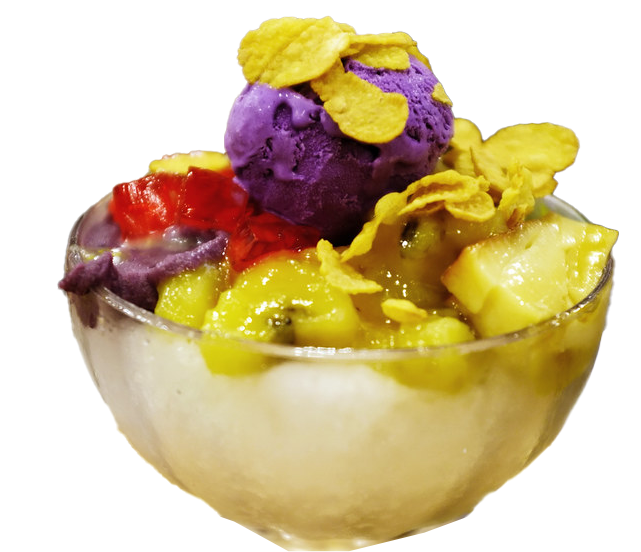
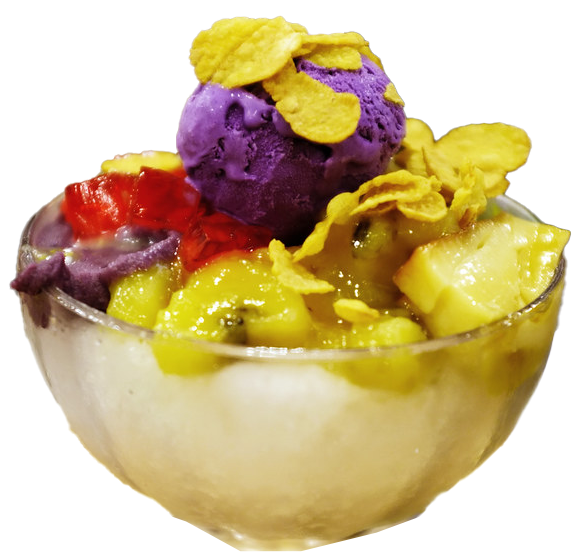
adjusting images and adding tailwind custom config

diff --git a/client/src/components/HomeDual/HomeDual.jsx b/client/src/components/HomeDual/HomeDual.jsx
@@ -5,11 +5,11 @@ import PaletaHalf from "./PaletaHalf";
 export default function HomeDual() {
   return (
     <div className=" w-screen h-screen ">
-      <div className="relative inset-0 bottom-0 lg:absolute lg:inset-x-0 lg:w-1/2 lg:h-full lg:float-left md:w-1/2 md:h-full md:float-left sm:w-full ">
+      <div className="relative inset-0 bottom-0 h-full lg:absolute lg:inset-x-0 lg:w-1/2 lg:h-full lg:float-left md:w-1/2 md:h-full md:float-left sm:w-full sm:h-1/2 ">
         <HaluHalf />
       </div>
 
-      <div className="lg:w-1/2 lg:h-full lg:float-right md:w-1/2 md:h-full md:float-left sm:w-full  ">
+      <div className=" lg:w-1/2 lg:h-full lg:float-right md:w-1/2 md:h-full md:float-left sm:w-full  ">
         <PaletaHalf />
       </div>
     </div>

diff --git a/client/tailwind.config.js b/client/tailwind.config.js
@@ -1,10 +1,24 @@
 /** @type {import('tailwindcss').Config} */
 module.exports = {
-  content: [
-    "./src/**/*.{js,jsx,ts,tsx}",
-  ],
+  content: ["./src/**/*.{js,jsx,ts,tsx}"],
   theme: {
-    extend: {},
+    extend: {
+      backgroundColor: (theme) => ({
+        yellow: "#FFED4C",
+        yellow100: "#ffff94",
+        chartreuse: "#A7DF06",
+        prp: "#AC9EFF",
+        magenta: "#B415FF",
+        cyan: "#0ADDD0",
+        red: "#D92929",
+        orange: "#FF6B00",
+        green: "#00A300",
+        blue: "#2421C6",
+        trp: "transparent",
+        black: "#000000",
+        white: "#ffffff",
+      }),
+    },
   },
   plugins: [],
-}
+};

diff --git a/client/src/components/HomeDual/HaluHalf.jsx b/client/src/components/HomeDual/HaluHalf.jsx
@@ -3,14 +3,12 @@ import halohalo from "../../images/halohalo.png";
 
 export default function HaluHalf() {
   return (
-    <div className="w-full h-full relative bg-yellow-400">
-      <div>
-        <img
-          src={halohalo}
-          alt="halo halo ice cream"
-          className=" absolute inset-x-0 bottom-0 w-full sm:w-screen md:w-full lg:w-full"
-        />
-      </div>
+    <div className=" overflow-hidden w-full h-full relative bg-yellow">
+      <img
+        src={halohalo}
+        alt="halo halo ice cream"
+        className=" absolute bottom-0 left-0 -ml-16 -mb-20 w-5/6"
+      />
     </div>
   );
 }
